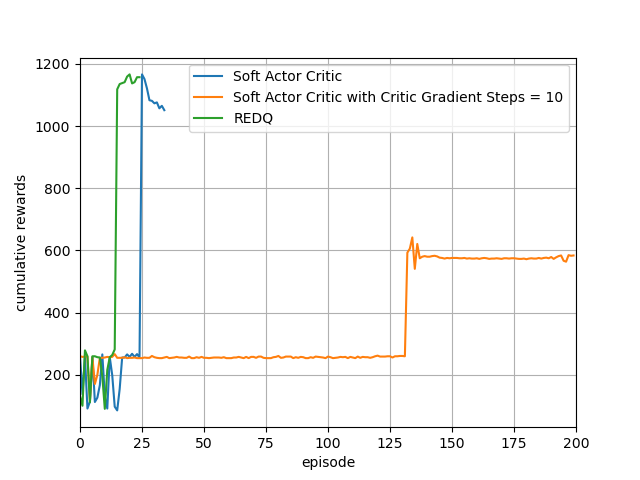
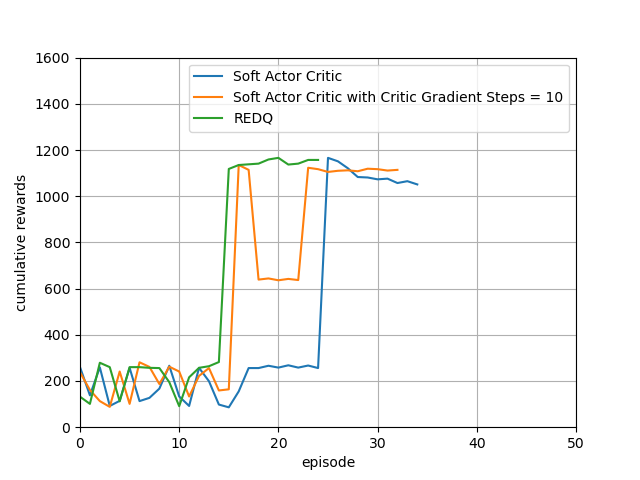
modify the results img

diff --git a/example/plot_results.py b/example/plot_results.py
@@ -35,16 +35,18 @@ def main_plot():
     ax1.set_xlabel("episode")
     
     ax1.set_xlim([0, 50])
+    
+    ax1.set_ylim([0, 1600])
 
     ax1.grid()
 
     ax1.legend()
 
-    plt.show()
+    # plt.show()
 
-    # img_path = os.path.join(os.getcwd(), 'example', 'img')
+    img_path = os.path.join(os.getcwd(), 'example', 'img')
 
-    # plt.savefig(os.path.join(img_path, "comparison.png"))
+    plt.savefig(os.path.join(img_path, "comparison.png"))
 
 
 if __name__ == '__main__':
